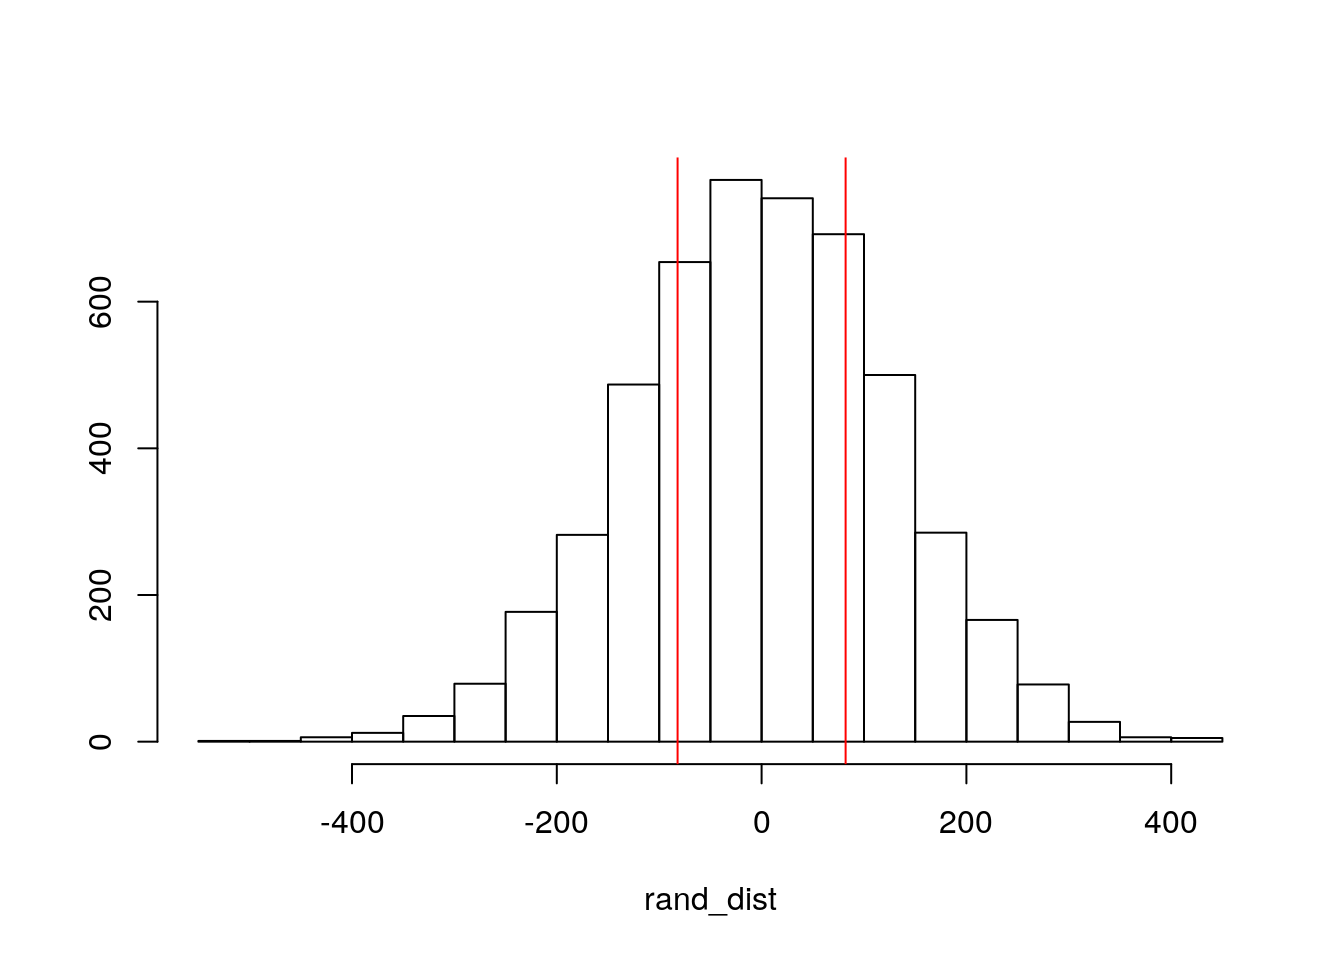
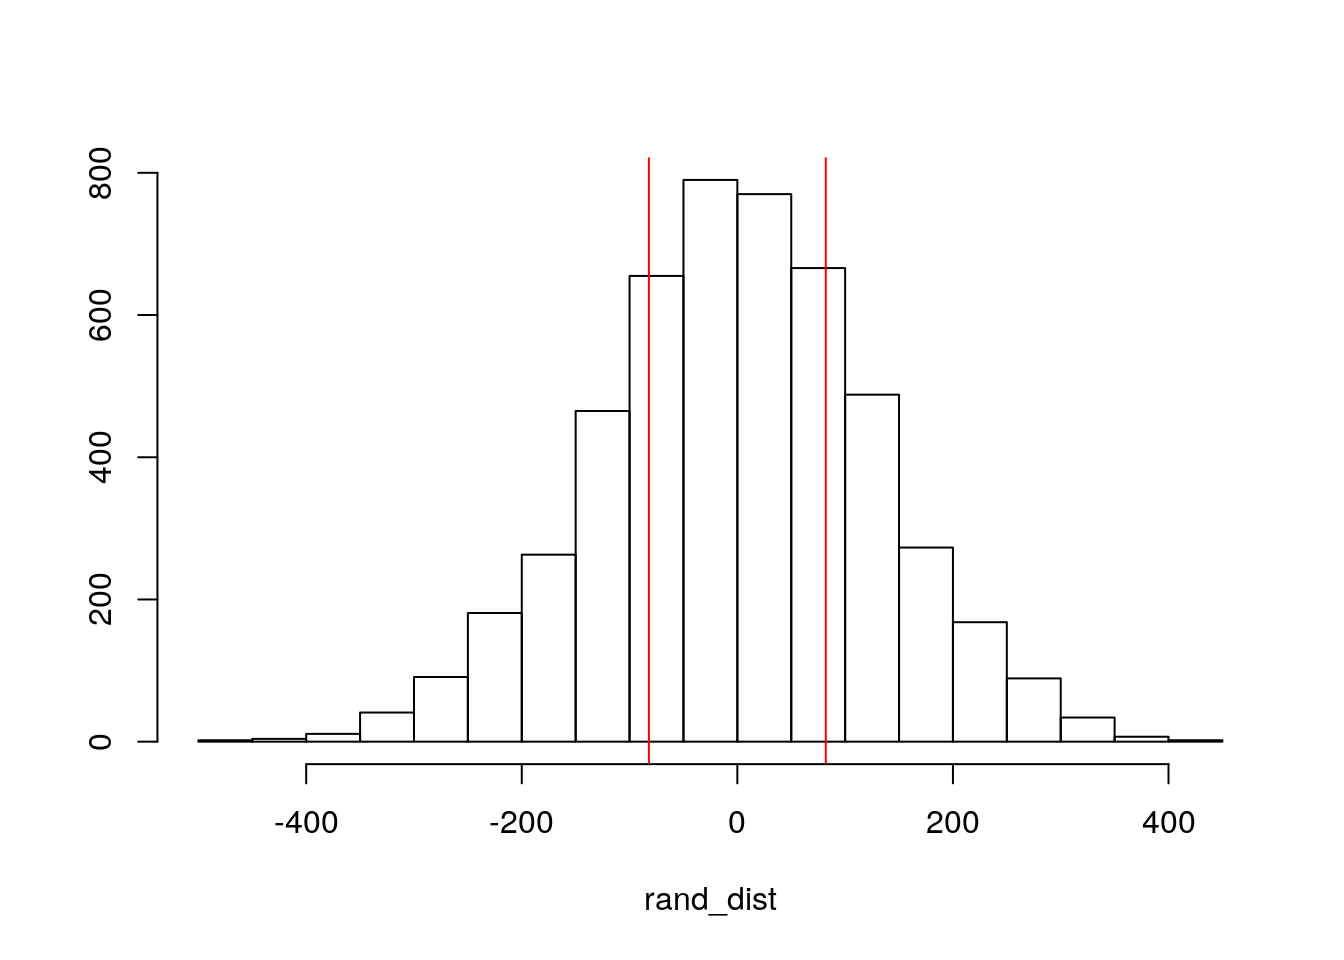
fix date

diff --git a/project/project2/index.html b/project/project2/index.html
@@ -60,7 +60,7 @@
  
 <div class="blog-title">
           <h4>
-         January 1, 0001 
+         May 9, 2021 
             &nbsp;&nbsp;
             
           </h4>
@@ -210,7 +210,7 @@ for(i in 1:5000){
 {hist(rand_dist,main=&quot;&quot;,ylab=&quot;&quot;); abline(v = c(-82.044, 82.044),col=&quot;red&quot;)}</code></pre>
 <p><img src="../../project/project2_files/figure-html/unnamed-chunk-3-1.png" width="672" /></p>
 <pre class="r"><code>mean(rand_dist&gt;82.044 | rand_dist &lt; -82.044)</code></pre>
-<pre><code>## [1] 0.5234</code></pre>
+<pre><code>## [1] 0.5168</code></pre>
 <p><em>The two variables are the categorical mode of delivery (cesarean or vaginal) and at baby’s birthweight in grams (“c_birth_weight_g2”). A randomization test was performed because potentially because the samples were too small to meet any assumptions. A mean difference test statistic was recorded to know of association between the categorical variable vs. numeric variable. The null hypothesis is that the mean birth weight is the same for cesarean vs. vaginal deliveries. The alternative hypothesis is that the mean birth weight is difference for cesarean vs. vaginal deliveries. Babies from a vaginal delivery had a birth weight 82.044 grams greater than babies delivered from a cesarean on average. The two-tailed p-value of 0.5318 tells us that we fail to reject the null hypothesis and that there is the mean birth weight is the same for both modes of delivery. The histogram shows are significant amount of mean differences falls beyond the observed mean difference (82.044 grams).</em></p>
 </div>
 <div id="linear-regression-model" class="section level2">
@@ -343,9 +343,9 @@ summary(fit)$coef  #normal-theory SEs</code></pre>
 ## Signif. codes:  0 &#39;***&#39; 0.001 &#39;**&#39; 0.01 &#39;*&#39; 0.05 &#39;.&#39; 0.1 &#39; &#39; 1</code></pre>
 <pre class="r"><code>samp_distn %&gt;% t %&gt;% as.data.frame %&gt;% summarize_all(sd) #bootstrapped SEs</code></pre>
 <pre><code>##   (Intercept) c_apgar_1 c_mode_of_deliveryVaginal_Delivery
-## 1     127.805   97.8563                           141.8686
+## 1    129.0148  97.77854                           142.2787
 ##   c_apgar_1:c_mode_of_deliveryVaginal_Delivery
-## 1                                     105.9195</code></pre>
+## 1                                     106.2765</code></pre>
 <p><em>When compared with original SEs and robust SEs, the SEs increased for the intercept. The boostrapped SE for APGAR_1 values are greater than the original SEs but less than the robust SEs. The bootstrapped SE for mode of delivery (vaginal delivery=1) is greater than the other two SEs. THe bootstrapped SE for the interaction variable is greater than the original SE but less than the robust SE.</em></p>
 </div>
 <div id="logistic-regression-model" class="section level2">

diff --git a/project/index.html b/project/index.html
@@ -59,7 +59,7 @@
               <div class="row">
                 <div class="col-sm-4 col-md-4 col-lg-4">
                   <h5 style="text-align: right">
-                    January 1, 0001
+                    May 9, 2021
                   </h5>
                  </div>
                  <div class="col-sm-8 col-md-8 col-lg-8">
@@ -72,7 +72,7 @@
               <div class="row">
                 <div class="col-sm-4 col-md-4 col-lg-4">
                   <h5 style="text-align: right">
-                    January 1, 0001
+                    May 9, 2021
                   </h5>
                  </div>
                  <div class="col-sm-8 col-md-8 col-lg-8">

diff --git a/project/project1/index.html b/project/project1/index.html
@@ -60,7 +60,7 @@
  
 <div class="blog-title">
           <h4>
-         January 1, 0001 
+         May 9, 2021 
             &nbsp;&nbsp;
             
           </h4>
